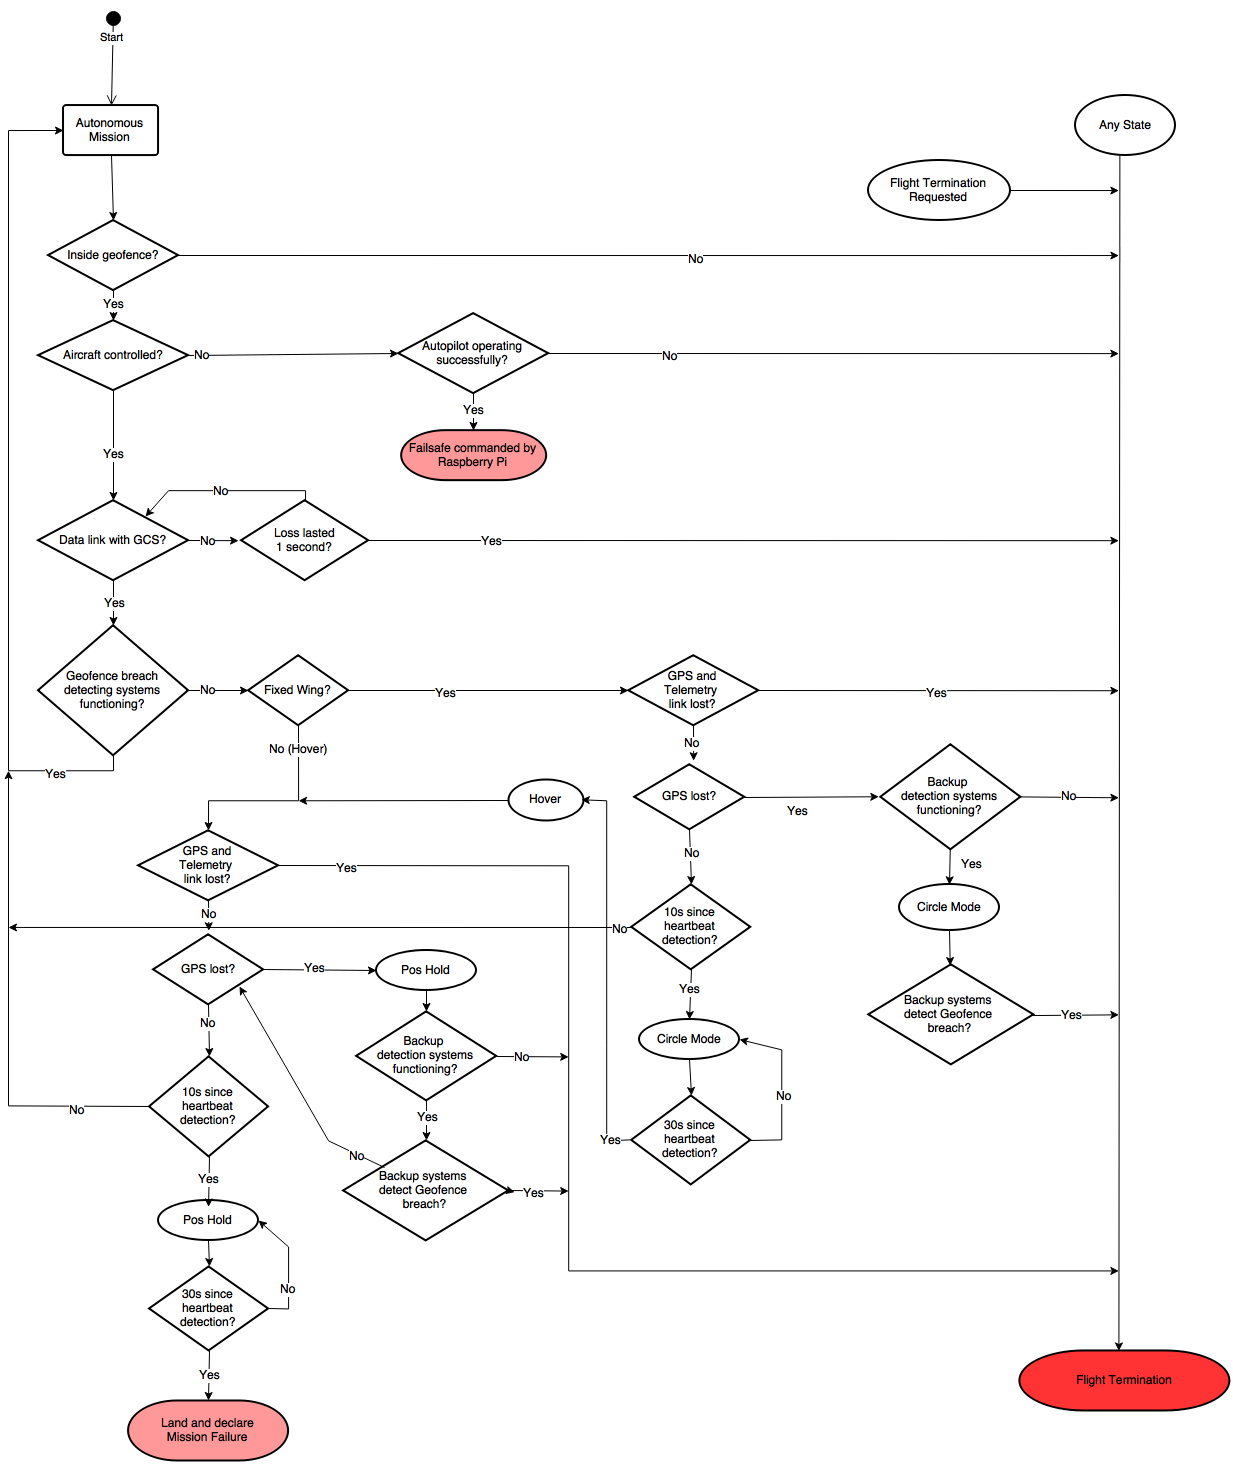
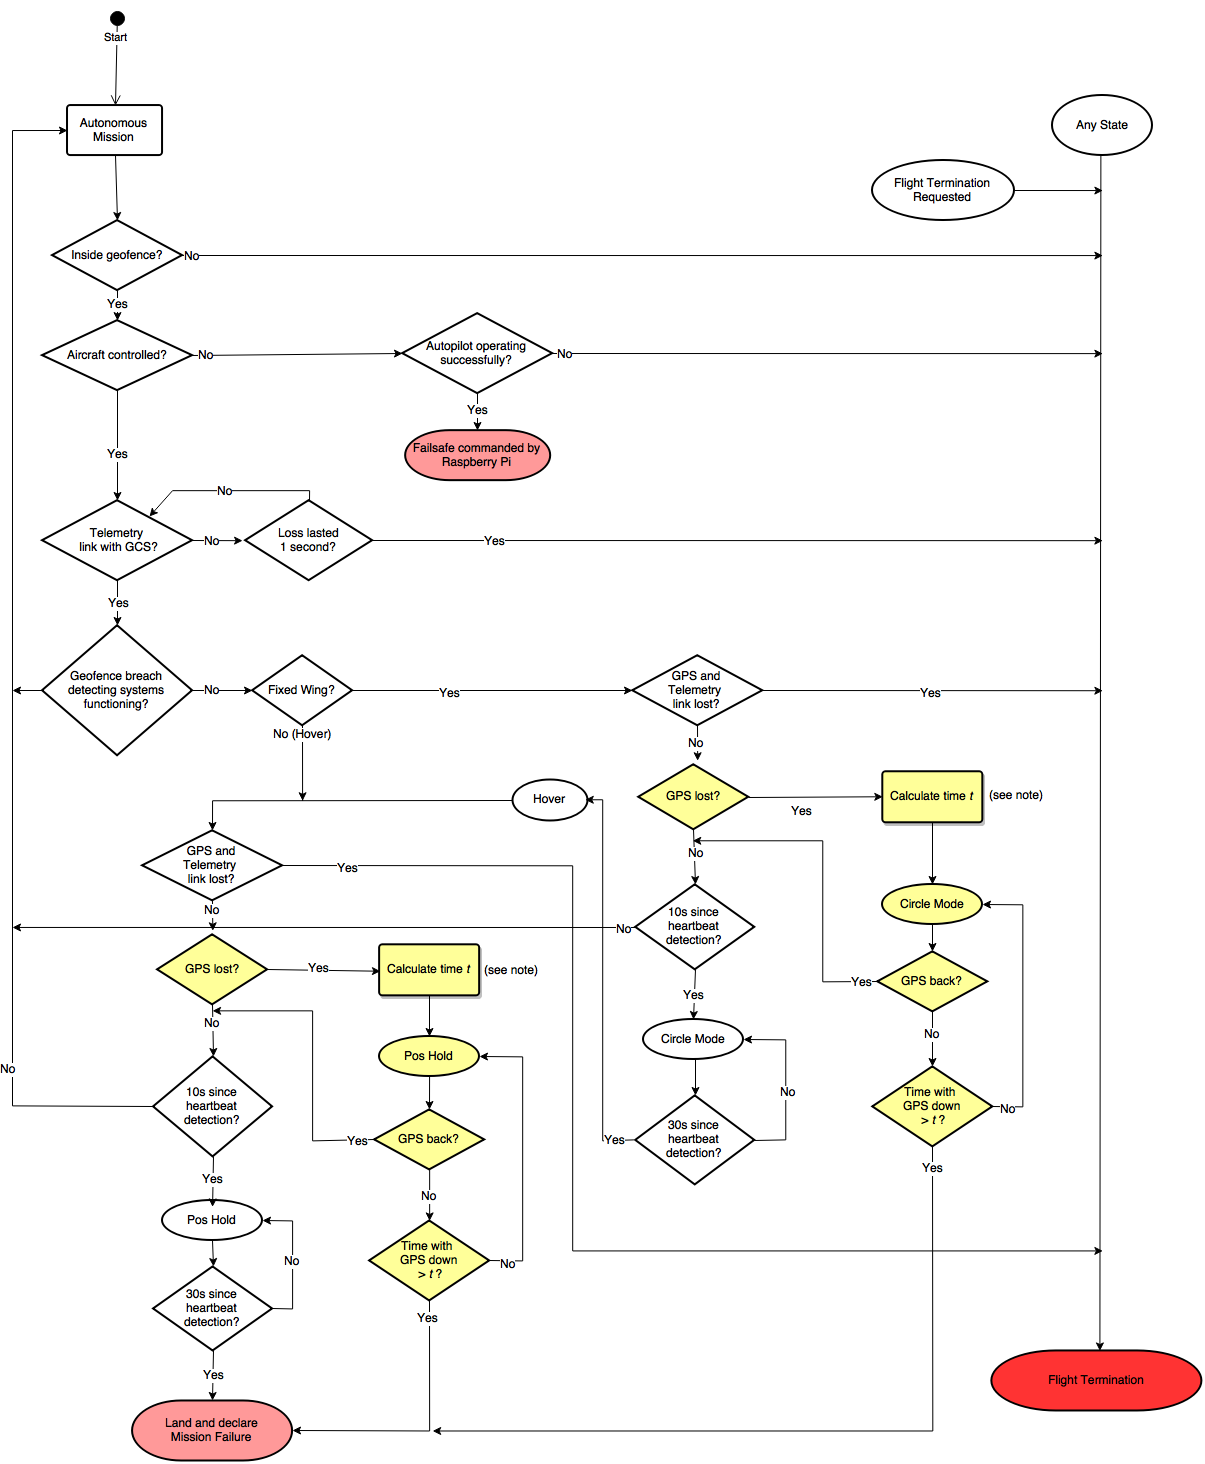
Resubmission edits

diff --git a/Latex/design.tex b/Latex/design.tex
@@ -16,7 +16,7 @@
 
 \subsection{Aeronautical Requirements}
 \begin{itemize}
-	\item \textbf{Lift} - With our selection of motors and batteries, our UAV is capable of 6.5kg of lift, more than enough to lift the 4kg airframe, as well as accept the sample from Joe.
+	\item \textbf{Lift} - With our selection of motors and batteries, our UAV is capable of 6.5kg of lift, more than enough to lift the 4.5kg airframe, as well as accept the sample from Joe.
 	\item \textbf{Stall} - As mentioned in Section \ref{sec:intro}, our UAV is built on the Skywalker X8 airframe. The stall speed of our aircraft is estimated to be 25.3 knots, according to empirical data on the Skywalker X8.
 	\item \textbf{Speed} - The X8 has been demonstrated by many users to achieve airspeeds in excess of 75.5 knots using similar battery and motor selections.
 	\item \textbf{Endurance} - Battery tests have shown that 4 vertical take-off and landing maneuvers, reaching an altitude of 20ft, lasting 1-2 minutes each, consumed only a small portion of total power capacity. Taking this into consideration, we have more than enough battery to achieve the remainder of the mission in fixed-wing flight.
@@ -25,11 +25,11 @@
 
 Prior to transitioning from hover to fixed-wing mode, the aircraft will align itself with wind, and the front rotors will be tilted at 30-45$^o$ to provide horizontal and vertical thrust. The aircraft will accelerate to above stall speed, at which the front rotors are fully rotated, completing the transition. To transition back to hover, the reverse operation is performed.\\
 
-As the aircraft is not yet fully complete, the requirements above are estimation/calculations only. Full testing and validation will be performed prior to Deliverable 3, once the aircraft has progressed in development. At this point proper range and endurance tests to will be conducted get a better estimation of cruise speeds, take off, landing and sample pick up times, as well as maximum flight time.
+As the aircraft is not yet fully complete, the requirements above are estimations/calculations only. Full testing and validation will be performed prior to Deliverable 3, once the aircraft has progressed in development. At this point proper range and endurance tests will be conducted to get a better estimation of cruise speeds, take off, landing and sample pick up times, as well as maximum flight time.
 
 \subsection{Flight Termination System}
 \subsubsection{Design}
-This aircraft’s flight termination system uses the on-board PixHawk controller and is built off existing APM:Plane firmware, with the focus of ensuring safe operation within a defined region of airspace, rather than prioritizing keeping the aircraft itself intact. Though our aircraft is a hybrid, it will respond as a fixed-wing device, disarming motors and setting  if the flight termination system is activated (i.e. motors will be disarmed and control surfaces will be set to the required positions). These control surface settings will cause the UAV to enter a spin towards the ground, thereby minimising the distance travelled beyond a Geofence boundary if a breach occurs.\\
+This aircraft's flight termination system uses the on-board PixHawk controller and is built off existing APM:Plane firmware, with the focus of ensuring safe operation within a defined region of airspace, rather than prioritizing keeping the aircraft itself intact. Though our aircraft is a hybrid, it will respond as a fixed-wing device, disarming motors and setting appropriate control surface positions if the flight termination system is activated. These control surface settings will cause the UAV to enter a spin towards the ground, thereby minimising the distance travelled beyond a Geofence boundary if a breach occurs.\\
 
 The rationale behind this decision is that even in copter flight modes, the UAV still has wings that may catch the wind and carry it further beyond a breached geofence boundary, so to minimise distance travelled outside the geofence in all cases the following control surface settings will be imposed on the aircraft:
 \begin{itemize}
@@ -60,6 +60,7 @@ Refer to Figure \ref{fig:termination-diagram}.
 \subsubsection{Analysis}
 Calculating the worst case scenario for activation of the flight termination system following a Geofence breach, we assume the control surface settings will cause the plane to enter a near-vertical dive. However, for simplicity of analysis and to take a conservative approach, in calculating the worst-case the plane is treated as a simple falling mass (in reality, trajectory of its crash will be steeper and the distance travelled beyond the geofence will be shorter). Since this is a worst-case calculation, it was assumed that in this scenario the UAV is flying directly at a geofence boundary, at maximum speed and maximum allowable altitude.
 \begin{itemize}
+	\itemsep0em 
 	\item Max speed = 75.5 knots = 38.5833m/s
 	\item Max altitude = 1500ft = 457.2m
 	\item Time to descend (as point mass under gravity) = 9.65s
@@ -67,13 +68,15 @@ Calculating the worst case scenario for activation of the flight termination sys
 \end{itemize}
 
 \subsection{Geofence System}
-The Geofence system implemented, as part of the firmware on our UAV, will be based on the system included in APM:Plane; that is, it will consist of a irregular polygon boundary made up of no more than 18 points, and will encompass the Base, the Landing Site, and the Transit Corridor.\\
+The Geofence system implemented, as part of the firmware on our UAV, will be based on the system included in APM:Plane; that is, it will consist of an irregular polygon boundary made up of no more than 18 points, and will encompass the Base, the Landing Site, and the Transit Corridor.\\
 
 Upon arming, a square Geofence will be sent to the PixHawk encompassing the Base. A soft Geofence will also be implemented as a circle of 800m diameter, allowing the UAV to attempt to recover when approaching the Geofence.\\
 
 Once cruising altitude is reached, Geofence is modified to include the transit corridor and landing site. Given that teams are provided with the mission details at the commencement of the event, the soft Geofence for this section will be manually created by the team, such that the UAV can avoid flight termination in the Transit Corridor.\\
 
-Finally, once reaching the landing site a square Geofence is again sent to the UAV, with the soft Geofence again being an 800m circle, centered on Joe's GPS location. When returning to Base, the Transit Corridor and Base Geofences are applied in the same manner.
+Finally, once reaching the landing site a square Geofence is again sent to the UAV, with the soft Geofence again being an 800m circle, centered on Joe's GPS location. When returning to Base, the Transit Corridor and Base Geofences are applied in the same manner.\\
+
+In event of a GPS failure, the aircraft will enter Circle mode (fixed-wing) or Pos Hold mode (hover) in order to reacquire GPS. Given the distance to the closest Geofence boundary from its last known position it will calculate the minimum time ($t$) before it \textit{may} cross the Geofence, assuming max cruise speed. If GPS is not acquired in $t$ seconds, the aircraft will immediately land. Since this is a very conservative estimate, the use of the flight termination system is not considered necessary.
 
 \subsection{Radio Equipment}
 In order to perform low-bandwidth digital telemetry between the drone and ground station over distances up to 12.5km we have chosen to use an RFD900 long range telemetry kit. In accordance with the ACMA LIPD-2015 ISM Class License this kit allows us to operate in a spectrum that does not require any specialised qualifications or license fees. The transmitter itself is compliant with AS 4268:2008, and is therefore suitable for use under the class license.\\

diff --git a/Latex/landing.tex b/Latex/landing.tex
@@ -3,9 +3,9 @@ Upon successfully reaching the end of the transit corridor, the aircraft will re
 
 With this in mind, the drone will navigate itself to the border of the reported area (lining up with a circle whose radius is 100 meters from Joe’s reported location). Once the aircraft has lined up with the circle it will start processing the images received from the camera mounted in the nose of the aircraft. It will continue along this path, every revolution bringing it slightly closer to the center until the 200 meter diameter circle has been searched in it’s entirety.\\
 
-An on board companion computer (Raspberry Pi™) will use open source visual computation software OpenCV to process the incoming images in an attempt to identify any object on the ground that might match Joe's description. The visual processing will include (blue) color masking and recognition, edge detection and possibly human/facial recognition, as well as a machine learning layer. Objects will be given scores based on the likelihood that they are Joe, and when an object scores above a threshold the aircraft will attempt to further identify the object. At this point the approximate position of the object and the current position in the holding pattern will be recorded.\\
+An on board companion computer (Raspberry Pi™) will use open source vision processing software OpenCV to process the incoming images in an attempt to identify any object on the ground that might match Joe's description. This will include (blue) color masking and recognition, edge detection and possibly human/facial recognition, as well as a machine learning layer. Objects will be given scores based on the likelihood that they are Joe, and when an object scores above a threshold the aircraft will attempt to further identify the object. At this point the approximate position of the object and the current position in the holding pattern will be recorded.\\
 
-The aircraft will then move from fixed wing mode to hover-mode.Once in hover mode the aircraft will return to the recorded position and reacquire the object. Using the mounting angle of the camera and repeated altitude measurements (checked with GPS and barometric sensors) the Raspberry Pi will calculate the distance from the aircraft to the object. Using these more precise conditions the drone will move closer to the object and further attempt to identify it as Joe. Once the aircraft is satisfied that Joe has been found it will begin maneuvers (see below) in an attempt to perform a safe landing.\\
+The aircraft will then move from fixed wing mode to hover mode. Once in hover mode the aircraft will return to the recorded position and reacquire the object. Using the mounting angle of the camera and repeated altitude measurements (checked with GPS and barometric sensors) the Raspberry Pi will calculate the distance from the aircraft to the object. Using these more precise calculations the aircraft will move closer to the object and further attempt to identify it as Joe. Once the aircraft is satisfied that Joe has been found it will begin maneuvers (see below) in an attempt to perform a safe landing.\\
 
 Should the aircraft decide that the item was a false positive, it will regain altitude, discard the object in memory, re-engage fixed wing flight and return to the stored location in the holding pattern to continue the search, repeating the above process with any object scoring a higher identification score than the threshold. 
 

diff --git a/Latex/exec.tex b/Latex/exec.tex
@@ -1,8 +1,8 @@
-Autonoma (formerly Melbourne Autonomous Systems) is entering the Outback Challenge for the first time in 2016, after some of the team members completed their final year research project developing a hybrid UAV to compete in the challenge in 2015. Autonoma is a self-funded, student-run team made up of final year and graduate Mechatronics students from the University of Melbourne.\\
+Autonoma (formerly Melbourne Autonomous Systems) is entering the UAV Challenge for the first time in 2016, after some of the team members completed their final year research project developing a hybrid UAV to compete in the challenge in 2015. Autonoma is a self-funded, student-run team made up of final year and graduate Mechatronics students from the University of Melbourne.\\
 
 Our design approach is first and foremost to maximise autonomy and safety, developing our own autonomous systems using DroneKit Python, and implementing flight termination systems in APM:Plane's firmware. The safety of the aircraft is also improved by the redundant sensors and power systems, and other safety measures implemented as a result of our risk assessment.\\
 
-The flight termination system is designed immediately send the aircraft into a dive if a key safety concern is violated, such as a Geofence breach. for less severe safety concerns, such as GPS loss, the system is designed to maintain flight as long as possible in the hope of returning to a safe flight state, but will safely land in safety concerns continue for some time. The PixHawk Geofence system is also augmented by a soft Geofence, implemented in Python on our Raspberry Pi companion computer, to maximise chances of completing the mission.\\
+The flight termination system is designed to immediately send the aircraft into a dive if a key safety concern is violated, such as a Geofence breach. For less severe safety concerns, such as GPS loss, the system is designed to maintain flight for as long as possible in the hope of returning to a safe flight state, but will safely land if safety concerns continue for some time. The PixHawk Geofence system is also augmented by a soft Geofence, implemented in Python on our Raspberry Pi companion computer, to maximise chances of completing the mission.\\
 
 The autonomy subsystem is designed to follow the mission waypoints through the transit corridor to Joe's location, and will implement a circular search when it reaches the landing site using OpenCV and machine learning to identify ``Joe-like'' objects and safe landing zones.\\
 

diff --git a/Latex/intro.tex b/Latex/intro.tex
@@ -3,7 +3,7 @@ This report discusses each of the logical components in developing our UAV, incl
 
 Our entry to the UAV Challenge 2016 consists of a single autonomous, hybrid fixed-wing/rotor-based aircraft, built on the Skywalker X8. The X8 will have 3 motors in a Y configuration, where the front rotors can rotate between vertical and forward thrust, allowing for both hover and fixed-wing flight modes. it will be controlled by a PixHawk flight controller, augmented by a Raspberry Pi companion computer for autonomy and computation. The completed airframe has a total weight of $\sim$4.5kg\\
 
-One of our primary concerns in developing an UAV Challenge capable UAV are autonomy, and safety. Our autonomous system builds upon the capabilities of the PixHawk autopilot by using DroneKit Python on the Raspberry Pi to add functionality such as additional sensing, more computational power, and mission planning, giving it the ability to make intelligent, independent decisions in real-time.\\
+One of our primary concerns in developing a UAV Challenge capable UAV are autonomy, and safety. Our autonomous system builds upon the capabilities of the PixHawk autopilot by using DroneKit Python on the Raspberry Pi to add functionality such as additional sensing, more computational power, and mission planning, giving it the ability to make intelligent, independent decisions in real-time.\\
 
 The other primary concern is meeting the strict safety requirements of the UAV Challenge, to ensure all personnel and property near the flight corridor, base and landing site can be assured to be safe. To achieve this, we have performed a comprehensive risk assessment, designed a robust flight termination system, and developed a series of pre-flight checks, all of which are discussed below. We have also designed our system with redundant power supplies, position sensing, and flight termination, and the capability for backup radio communication if required.\\
 
@@ -11,4 +11,4 @@ For additional safety, the aircraft is fitted with an arming switch to manually 
 
 In our short time developing our UAV for our first UAV Challenge we've had plenty of failed test flights, but also many successes, including autonomous missions. Every test flight, simulated and real, gives us new information, and we look forward to having a completed aircraft for the Challenge in September.\\
 
-Autonoma have no sponsorship sources to disclose.\\
+Autonoma has no sponsorship sources to disclose.\\

diff --git a/Latex/riskManagement.tex b/Latex/riskManagement.tex
@@ -75,9 +75,9 @@ This section addresses how the team will manage and mitigate the risks identifie
 		\hline
 		Loss of aircraft control (Propeller or power loss) & Failsafe is commanded by Raspberry Pi upon erratic/uncontrolled behaviour & \MULTROW{Low} \\		
 		\hline
-		\MULTROW{Loss of GPS link to UAV (Hover)}[*][4] & Switch to PosHold mode until a GPS fix is acquired; activate flight termination if backup position sensors estimate UAV has crossed a Geofence boundary & \MULTROW{Low}[*][4] \\
+		\MULTROW{Loss of GPS link to UAV (Hover)}[*][4] & Switch to Pos Hold mode until a GPS fix is acquired; land aircraft if $t$ seconds have elapsed, where $t$ is min time to Geofence crossing from last position & \MULTROW{Low}[*][4] \\
 		\hline
-		\MULTROW{Loss of GPS link to UAV (Fixed wing)}[*][4] & Switch to Circle mode until a GPS fix is acquired; activate flight termination if backup position sensors estimate UAV has crossed a Geofence boundary & \MULTROW{Low}[*][4]\\
+		\MULTROW{Loss of GPS link to UAV (Fixed wing)}[*][4] & Switch to Circle mode until a GPS fix is acquired; land aircraft if $t$ seconds have elapsed, where $t$ is min time to Geofence crossing from last position & \MULTROW{Low}[*][4]\\
 		\hline
 		\MULTROW{Loss of telemetry/radio link to GCS}[*][3] \MULTROW{(Hover)}[*][3] & If a heartbeat has not been detected for 10s, switch to PosHold mode; if no heartbeat detected for 30s, immediately land and declare mission failure & \MULTROW{Low}[*][4] \\
 		\hline
